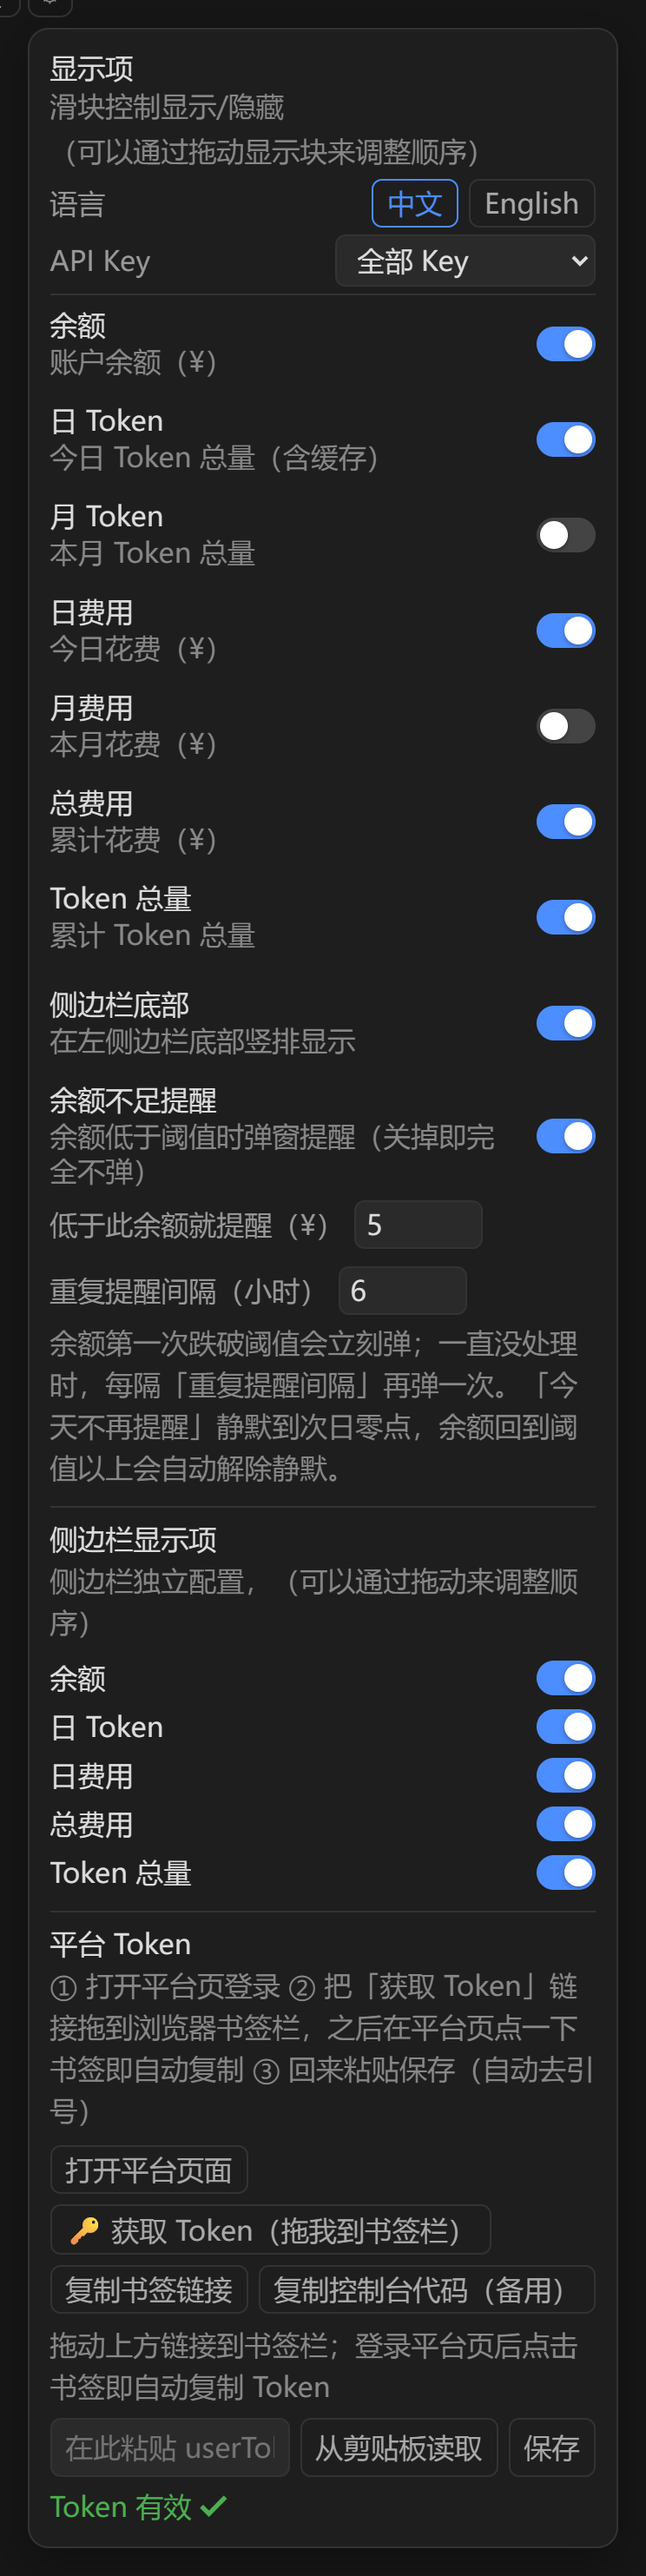
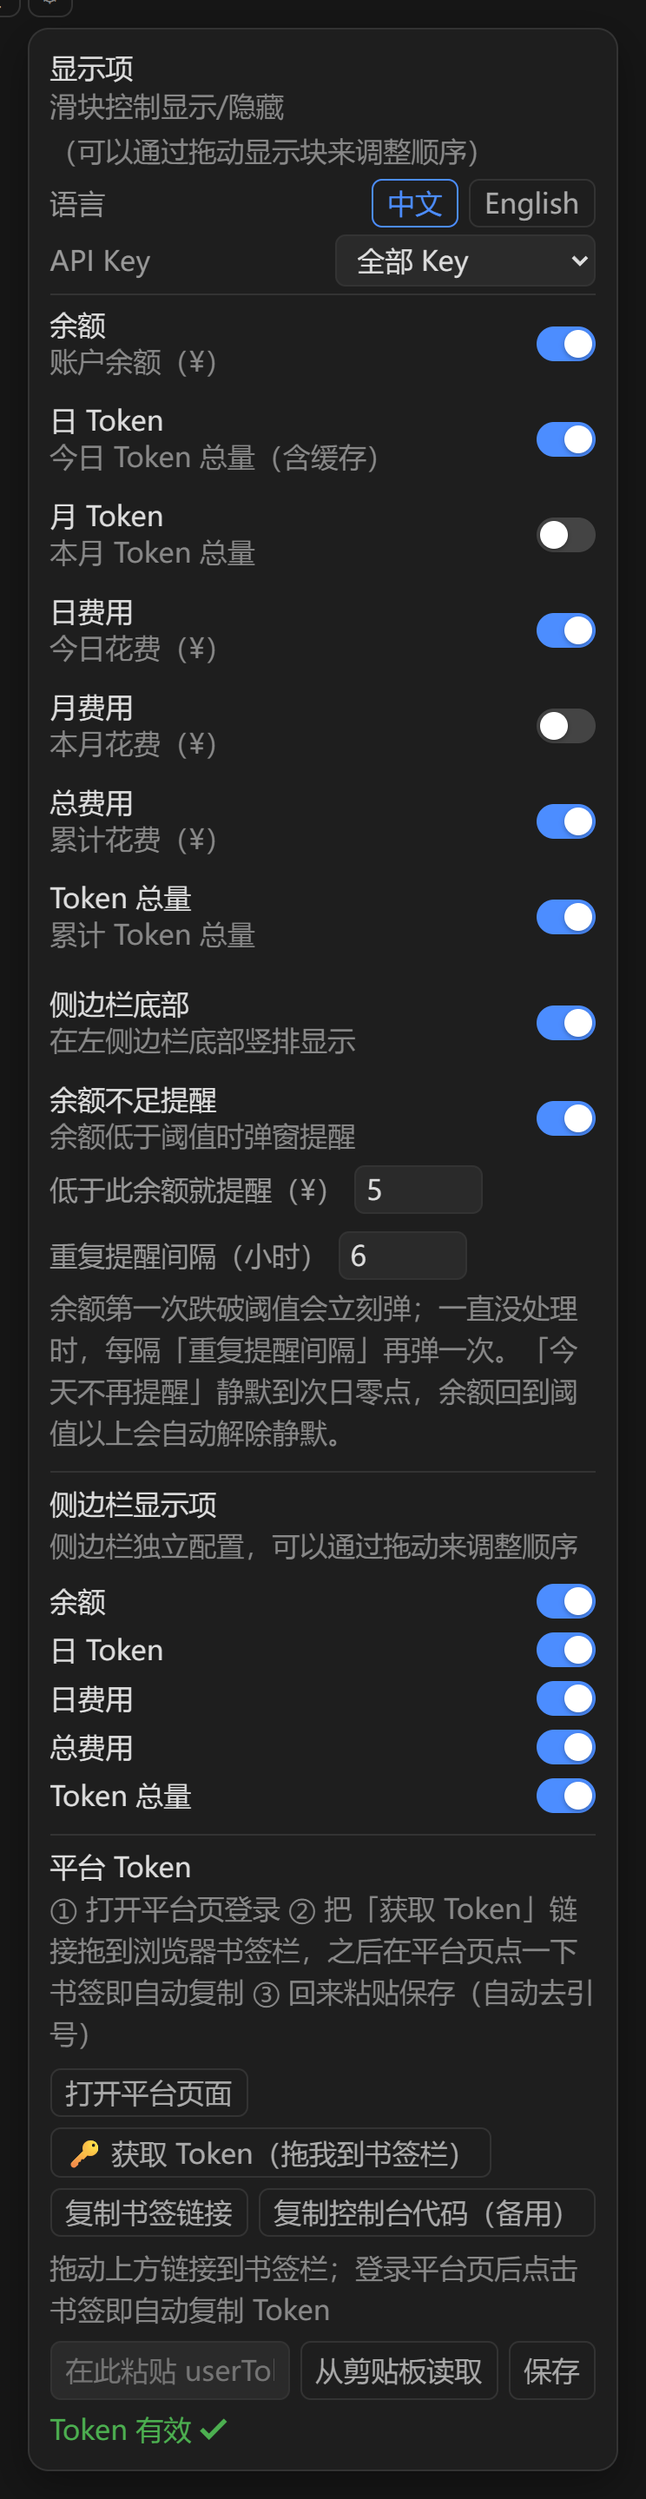
界面：余额提醒去掉冗余说明，侧边栏提示去掉括号

diff --git a/lib/client.js b/lib/client.js
@@ -44,7 +44,7 @@ window.__ModuleLoader__.load({
 			"config.desc": "滑块控制显示/隐藏",
 			"cfg.drag.hint": "（可以通过拖动显示块来调整顺序）",
 			"cfg.lowBalance": "余额不足提醒",
-			"cfg.lowBalance.desc": "余额低于阈值时弹窗提醒（关掉即完全不弹）",
+			"cfg.lowBalance.desc": "余额低于阈值时弹窗提醒",
 			"cfg.lowBalance.threshold": "低于此余额就提醒（¥）",
 			"cfg.lowBalance.interval": "重复提醒间隔（小时）",
 			"cfg.lowBalance.hint": "余额第一次跌破阈值会立刻弹；一直没处理时，每隔「重复提醒间隔」再弹一次。「今天不再提醒」静默到次日零点，余额回到阈值以上会自动解除静默。",
@@ -71,7 +71,7 @@ window.__ModuleLoader__.load({
 			"cfg.sidebar": "侧边栏底部",
 			"cfg.sidebar.desc": "在左侧边栏底部竖排显示",
 			"cfg.sidebar.items": "侧边栏显示项",
-			"cfg.sidebar.items.hint": "侧边栏独立配置，（可以通过拖动来调整顺序）",
+			"cfg.sidebar.items.hint": "侧边栏独立配置，可以通过拖动来调整顺序",
 			"token.section": "平台 Token",
 			"token.howto": "① 打开平台页登录 ② 把「获取 Token」链接拖到浏览器书签栏，之后在平台页点一下书签即自动复制 ③ 回来粘贴保存（自动去引号）",
 			"token.open": "打开平台页面",
@@ -134,7 +134,7 @@ window.__ModuleLoader__.load({
 			"config.desc": "Switches control visibility",
 			"cfg.drag.hint": "(You can drag the blocks to change their order.)",
 			"cfg.lowBalance": "Low-balance alert",
-			"cfg.lowBalance.desc": "Popup when the balance drops below the threshold (turn off to disable)",
+			"cfg.lowBalance.desc": "Popup when the balance drops below the threshold",
 			"cfg.lowBalance.threshold": "Alert below this balance (¥)",
 			"cfg.lowBalance.interval": "Repeat reminder interval (hours)",
 			"cfg.lowBalance.hint": "The first drop below the threshold pops up right away; while the balance stays below it, the popup repeats once per \"repeat reminder interval\". \"Don't remind me today\" stays quiet until midnight, and the mute clears automatically once the balance is back above the threshold.",
@@ -161,7 +161,7 @@ window.__ModuleLoader__.load({
 			"cfg.sidebar": "Sidebar footer",
 			"cfg.sidebar.desc": "Vertical stack at the bottom of the left sidebar",
 			"cfg.sidebar.items": "Sidebar items",
-			"cfg.sidebar.items.hint": "The sidebar is configured independently (drag the rows to change their order).",
+			"cfg.sidebar.items.hint": "The sidebar is configured independently — drag the rows to change their order.",
 			"token.section": "Platform token",
 			"token.howto": "① Open the platform page and sign in ② Drag the 'Get Token' link to the bookmarks bar; click it on the platform page to auto-copy ③ Paste here and save (quotes stripped)",
 			"token.open": "Open platform page",
